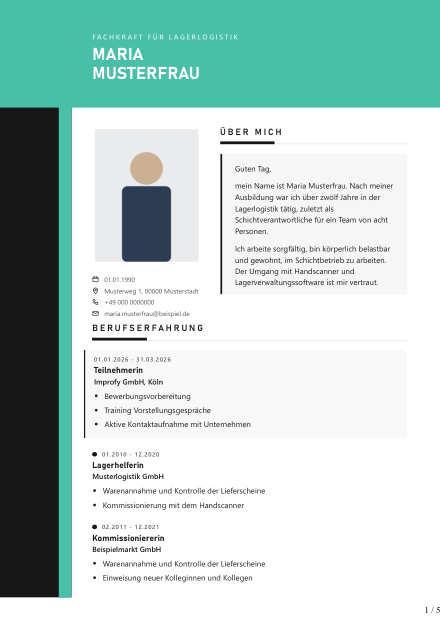
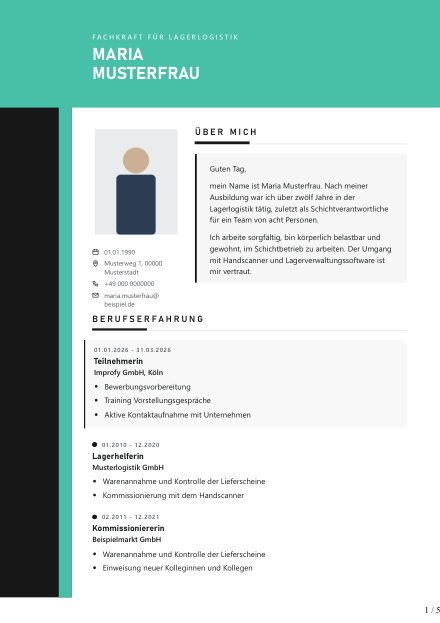
Alle Fotos in dieselbe linke Spalte - eine Kante ueber alle Seiten
**Was falsch war.** Das Foto im Kopf stand links, die Fotos der Folgekapitel rechts als
umflossenes Bild. Auf Seite 1 links, auf Seite 2 rechts - das liest sich unruhig und
wirkt, als haette jede Seite ein anderer gesetzt.

**Was jetzt gilt.** Jedes Foto steht in einer Spalte derselben Breite an derselben
Stelle wie das erste; Ueberschrift und Text stehen rechts daneben, genau wie
"Ueber mich" auf Seite 1 neben dem Foto steht. Nachgemessen am fertigen PDF: alle Fotos
eines Lebenslaufs beginnen bei derselben x-Koordinate.

Wieder eine Tabelle mit zwei Zellen und kein Float. Ein Float laesst nur den Text
ausweichen, nicht den Kasten - daraus kamen schon drei Ueberlappungsfehler.

**Bei der Kopfform mit Randspalte** ist die Fotospalte schmaler (42 statt 52 mm): Die
Randspalte frisst dort schon 44 mm vom Blatt, sonst bleibt fuer den Text zu wenig und der
Satz wird hoch. Kopf- und Kapitelfoto teilen sich die Zahl, damit die Kante stimmt.

**Ein Fehler, den der Umbau ans Licht brachte:** `.blatt` hatte vier Millimeter
Fusspolster. Den Abstand zur Blattkante liefert schon der Seitenrand; die vier
zusaetzlichen Millimeter reichten, um den Satzspiegel ueber die Kante zu schieben und
ein Blatt zu erzwingen, auf dem nur der wiederholte Kopf stand. Bei zwei Vorlagen mit
viel Inhalt genau so passiert.

Geprueft: 69 Durchgaenge der Belastungsprobe ohne Verlust, ohne Ueberlappung, ohne leere
Schlussseite; 210 Pruefungen in den drei Testreihen; der Beispiel-Lebenslauf in vier
[…]

Changed region(s): [[0.2068, 0.2135, 0.6205, 0.9454], [0.4432, 0.183, 0.8864, 0.4575]]

diff --git a/templates/cv_designs/cv_skin.html b/templates/cv_designs/cv_skin.html
@@ -29,6 +29,10 @@ body { font-family: var(--textschrift); }
 @page { margin: 0 0 12mm; }
 body { color: var(--text); }
 
+/* `.blatt` hat bewusst **kein** Fusspolster: Den Abstand zur Blattkante liefert schon
+   der Seitenrand (@page). Vier zusaetzliche Millimeter reichten, um den Satzspiegel
+   ueber die Kante zu schieben und eine Seite zu erzwingen, auf der nur der
+   wiederholte Kopf stand. (18.09.2026)  */
 table.seite { width: 100%; border-collapse: collapse; }
 table.seite > thead { display: table-header-group; }
 table.seite > tbody { display: table-row-group; }
@@ -66,7 +70,7 @@ table.seite > thead td { padding-bottom: {{ '10mm' if skin.kopfform == 'band' el
    begann der Text sofort - dort lag die Spitze auf dem Wort „SCHULBILDUNG" und
    verdeckte den ersten Buchstaben. Der Abstand muss deshalb groesser sein als der
    Zipfel hoch ist, und zwar auf **jeder** Seite. (Gesehen am 18.09.2026.) */
-.blatt { padding: 0 16mm 4mm; }
+.blatt { padding: 0 16mm 0; }
 
 {% elif skin.kopfform == 'links' %}
 /* Die farbige Randspalte läuft über die **ganze** Seite, nicht nur durch den Kopf.
@@ -81,7 +85,7 @@ table.seite > thead td { padding-bottom: {{ '10mm' if skin.kopfform == 'band' el
 .kopf { background: var(--farbe2); padding: 15mm 16mm 11mm 44mm; }
 .kopf .name { color: #fff; font-size: 23pt; }
 .kopf .rolle { color: #ffffffcc; margin-bottom: 2.5mm; }
-.blatt { padding: 0 16mm 4mm 44mm; }
+.blatt { padding: 0 16mm 0 44mm; }
 
 {% elif skin.kopfform == 'ecke' %}
 /* `clip-path` statt `overflow: hidden`. Beides beschneidet die ueberstehenden Kreise -
@@ -104,7 +108,7 @@ table.seite > thead td { padding-bottom: {{ '10mm' if skin.kopfform == 'band' el
                 padding-right: 46mm; }
 .kopf .name { color: var(--text); font-size: 25pt; }
 .kopf .rolle { color: var(--farbe); margin-bottom: 2.5mm; }
-.blatt { padding: 0 16mm 4mm; }
+.blatt { padding: 0 16mm 0; }
 
 {% elif skin.kopfform == 'flaeche' %}
 body { background: var(--farbe2); }
@@ -114,7 +118,7 @@ body { background: var(--farbe2); }
 .kopf .name b { font-weight: 700; }
 .kopf .strich { width: 26mm; height: .5mm; background: var(--farbe); margin: 4mm auto 3mm; }
 .kopf .rolle { color: var(--farbe); }
-.blatt { padding: 0 16mm 4mm; }
+.blatt { padding: 0 16mm 0; }
 
 {% elif skin.kopfform == 'rahmen' %}
 .kopf { padding: 14mm 16mm 9mm; text-align: center; }
@@ -122,7 +126,7 @@ body { background: var(--farbe2); }
                height: .5mm; background: var(--farbe); }
 .kopf .name { color: var(--text); font-size: 24pt; letter-spacing: .04em; }
 .kopf .rolle { color: var(--farbe); margin-top: 3mm; }
-.blatt { padding: 0 16mm 4mm; }
+.blatt { padding: 0 16mm 0; }
 .blatt::before { content: ""; position: fixed; left: 8mm; top: 8mm; right: 8mm; bottom: 8mm;
                  border: .4mm solid var(--farbe2); pointer-events: none; }
 
@@ -133,25 +137,31 @@ body { background: var(--farbe2); }
 .kopf .rolle { color: var(--farbe); margin-top: 3mm; }
 .kopf .marke { display: inline-block; height: 1.4mm; width: 18mm; background: var(--farbe);
                margin-bottom: 4mm; }
-.blatt { padding: 0 16mm 4mm; }
+.blatt { padding: 0 16mm 0; }
 {% endif %}
 
 /* ---------------------------------------------------- Foto, Kontakt, Inhalt */
 /* Zwei echte Spalten statt Float und Textumfluss - siehe Kopf dieser Datei. */
 table.kopfreihe { width: 100%; border-collapse: collapse; margin-bottom: 2mm; }
 table.kopfreihe > tbody > tr > td { padding: 0; vertical-align: top; }
-td.links { width: 52mm; padding-right: 9mm !important; }
-/* Die Fotos der Folgekapitel stehen rechts im Satz, der Text laeuft darum. Hier ist ein
-   Float richtig: Es geht um Text um ein Bild, nicht um zwei Spalten - und er laesst
-   keinen Rand leer, wenn das Bild kuerzer ist als das Kapitel. */
-.nebenfoto { float: right; width: 34mm; aspect-ratio: 3 / 4; object-fit: cover;
-             object-position: center top; border-radius: 2mm;
-             margin: 0 0 4mm 7mm; shape-outside: inset(0 round 2mm);
-             {% if skin.kopfform == 'band' %}border: 1mm solid var(--farbe2);{% endif %}
-             {% if skin.kopfform == 'links' %}border: 1mm solid #fff;{% endif %} }
-/* Ein Kapitel mit Bild darf nicht mitten durch das Bild umbrechen. */
-.kapitel:has(> .nebenfoto) > h2 { break-after: avoid; }
-.foto { width: 52mm; height: 66mm; border-radius: 2mm;
+/* Eine Zahl fuer beide Fotospalten: Kopf und Folgekapitel muessen dieselbe Kante haben.
+   Bei der Kopfform mit Randspalte frisst die Spalte schon 44 mm vom Blatt - dort bleibt
+   fuer den Text sonst zu wenig, und der Satz wird hoch. Deshalb dort schmaler. */
+td.links { width: {{ '42mm' if skin.kopfform == 'links' else '52mm' }};
+           padding-right: {{ '7mm' if skin.kopfform == 'links' else '9mm' }} !important; }
+/* Die Fotos der Folgekapitel stehen in **derselben** Spalte wie das erste - gleiche
+   Breite, gleiche Kante. Vorher standen sie rechts und wechselten von Seite zu Seite die
+   Seite; das sah aus, als haette jede Seite ein anderer gesetzt. Wieder eine Tabelle und
+   kein Float: Ein Float laesst nur den Text ausweichen, nicht den Kasten. */
+table.fotoreihe { width: 100%; border-collapse: collapse; }
+table.fotoreihe > tbody > tr > td { padding: 0; vertical-align: top; }
+.seitenfoto { display: block; width: {{ '42mm' if skin.kopfform == 'links' else '52mm' }};
+              aspect-ratio: 3 / 4; object-fit: cover;
+              object-position: center top; border-radius: 2mm;
+              {% if skin.kopfform == 'band' %}border: 1.2mm solid var(--farbe2);{% endif %}
+              {% if skin.kopfform == 'links' %}border: 1.4mm solid #fff;{% endif %} }
+.foto { width: {{ '42mm' if skin.kopfform == 'links' else '52mm' }};
+        height: {{ '53mm' if skin.kopfform == 'links' else '66mm' }}; border-radius: 2mm;
         {% if skin.kopfform == 'band' %}border: 1.2mm solid var(--farbe2);{% endif %}
         {% if skin.kopfform == 'links' %}border: 1.4mm solid #fff;{% endif %} }
 .kontakt svg { width: 3.3mm; height: 3.3mm; flex: none; margin-top: .3mm;
@@ -405,12 +415,13 @@ li { margin-bottom: 1.4mm; }
 </tr></table>
 
     {% if beruf %}
+    {% if weitere.beruf %}
+    <table class="fotoreihe"><tr>
+      <td class="links"><img class="seitenfoto" src="{{ weitere.beruf }}" alt=""></td>
+      <td>
+    {% endif %}
     <section class="kapitel">
       <h2>Berufserfahrung</h2>
-      {# Zweites Foto. Es steht am Anfang eines Kapitels, nicht auf einer festen Seite:
-         wo eine Seite endet, entscheidet erst der Umbruch. Der Text laeuft daneben
-         weiter, damit kein halbes Blatt leer bleibt. #}
-      {% if weitere.beruf %}<img class="nebenfoto" src="{{ weitere.beruf }}" alt="">{% endif %}
       {% for b in beruf %}
       <div class="eintrag{{ ' laufend' if loop.first and b.firma and 'Improfy' in b.firma }}">
         {# Zeitraum oben und leise, darunter die Stelle. Steht nur eines von Titel und
@@ -423,12 +434,17 @@ li { margin-bottom: 1.4mm; }
       </div>
       {% endfor %}
     </section>
+    {% if weitere.beruf %}</td></tr></table>{% endif %}
     {% endif %}
 
     {% if d.bildung %}
+    {% if weitere.bildung %}
+    <table class="fotoreihe"><tr>
+      <td class="links"><img class="seitenfoto" src="{{ weitere.bildung }}" alt=""></td>
+      <td>
+    {% endif %}
     <section class="kapitel">
       <h2>Schulbildung</h2>
-      {% if weitere.bildung %}<img class="nebenfoto" src="{{ weitere.bildung }}" alt="">{% endif %}
       {% for b in d.bildung %}
       <div class="eintrag">
         {% if b.zeitraum %}<div class="wann">{{ b.zeitraum }}</div>{% endif %}
@@ -438,13 +454,18 @@ li { margin-bottom: 1.4mm; }
       </div>
       {% endfor %}
     </section>
+    {% if weitere.bildung %}</td></tr></table>{% endif %}
     {% endif %}
 
     {% set fs = d.fuehrerschein or {} %}
     {% if d.soft_skills or d.edv_kenntnisse or d.sprachen or d.zusatzqualifikationen or fs.vorhanden %}
+    {% if weitere.quali %}
+    <table class="fotoreihe"><tr>
+      <td class="links"><img class="seitenfoto" src="{{ weitere.quali }}" alt=""></td>
+      <td>
+    {% endif %}
     <section class="kapitel">
       <h2>Persönliche Qualifikation</h2>
-      {% if weitere.quali %}<img class="nebenfoto" src="{{ weitere.quali }}" alt="">{% endif %}
 
       {# Drei kurze Listen, die gestapelt eine halbe Seite fuellten und die letzte davon
          auf ein fast leeres Blatt schoben (bei duenner Datenlage standen auf Seite 2 genau
@@ -503,6 +524,7 @@ li { margin-bottom: 1.4mm; }
         {% endif %}
       </div>
     </section>
+    {% if weitere.quali %}</td></tr></table>{% endif %}
     {% endif %}
 </div>
 </td></tr></tbody>
